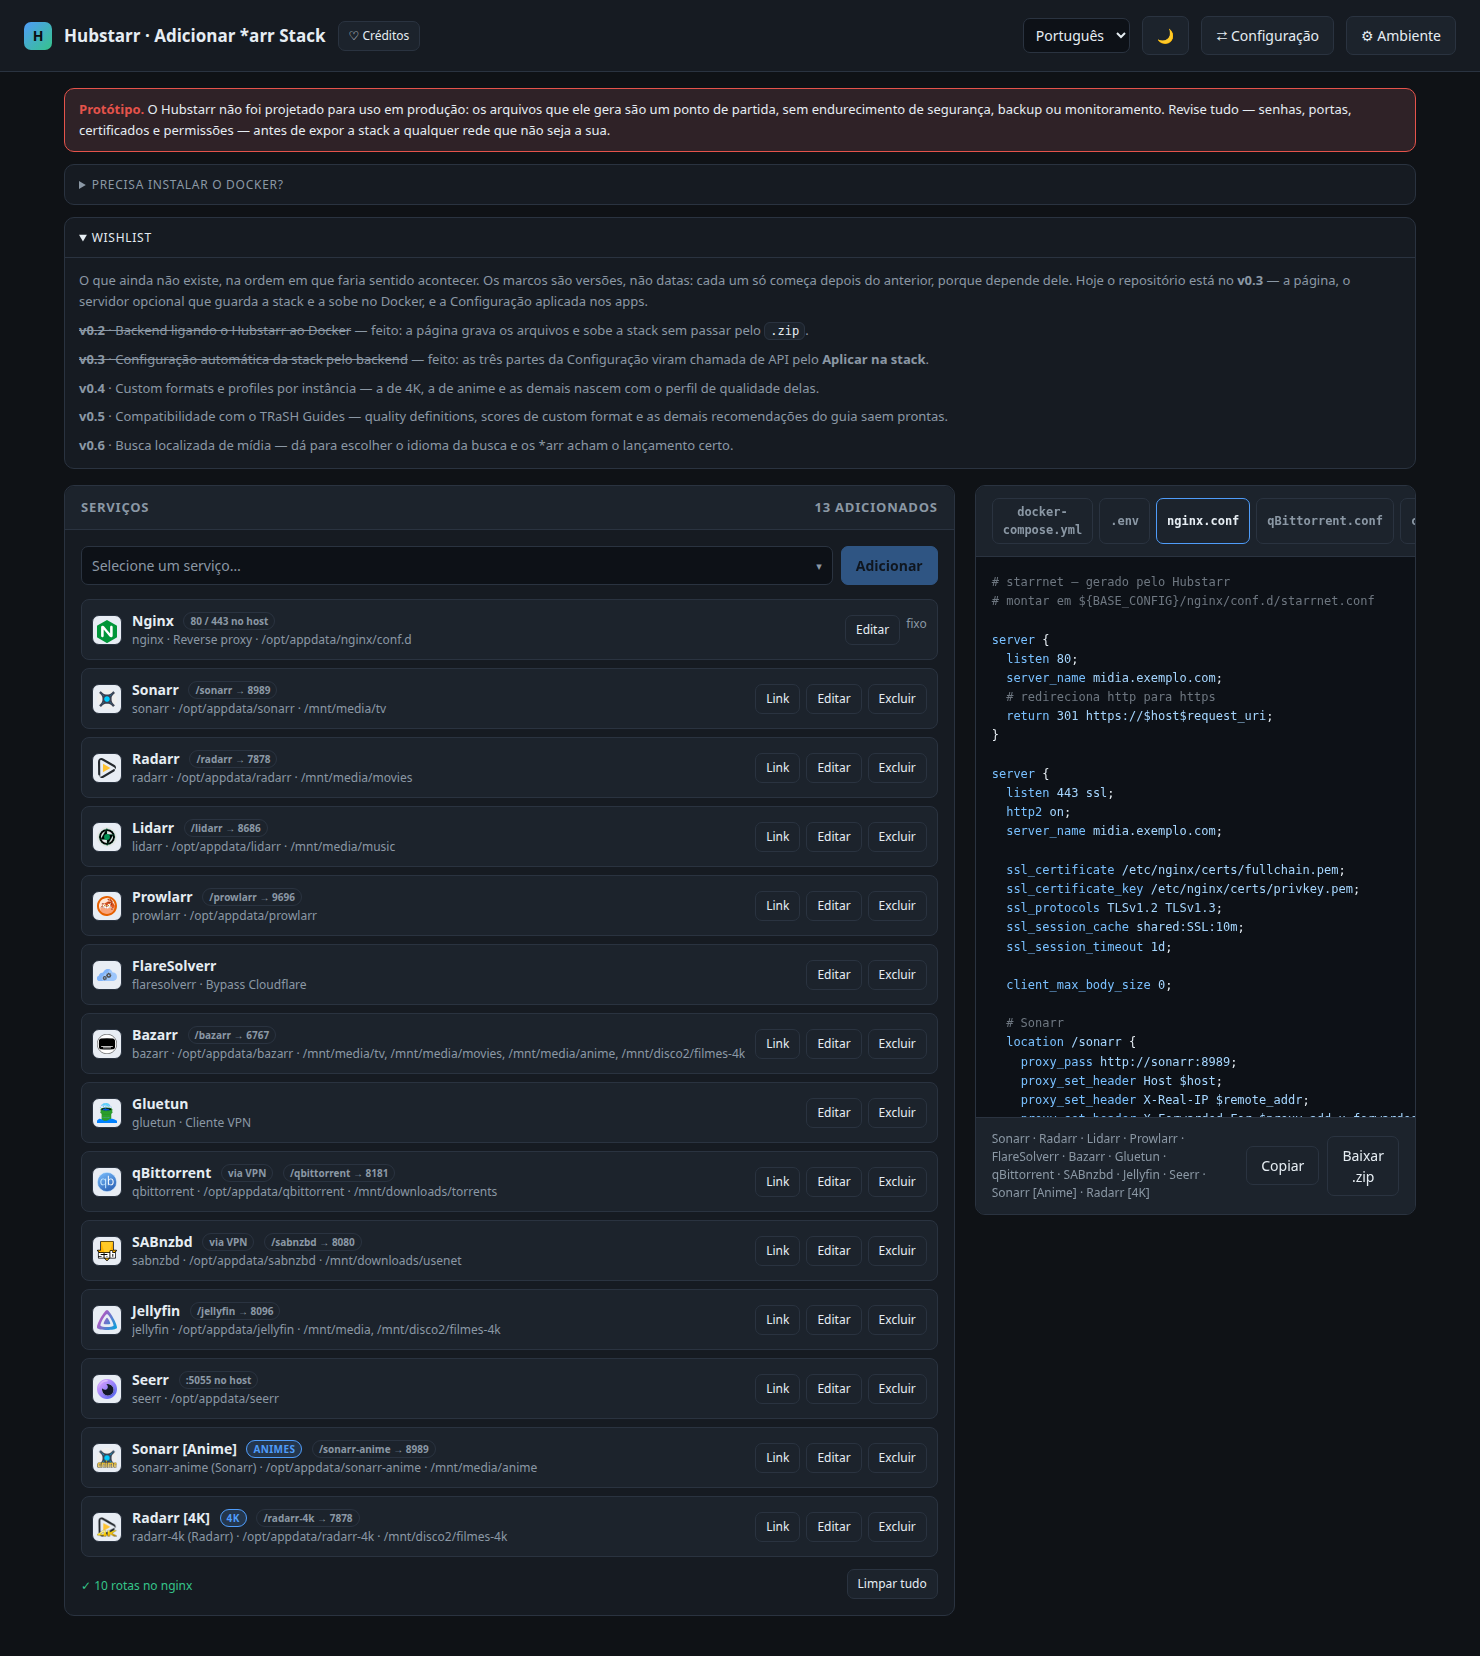
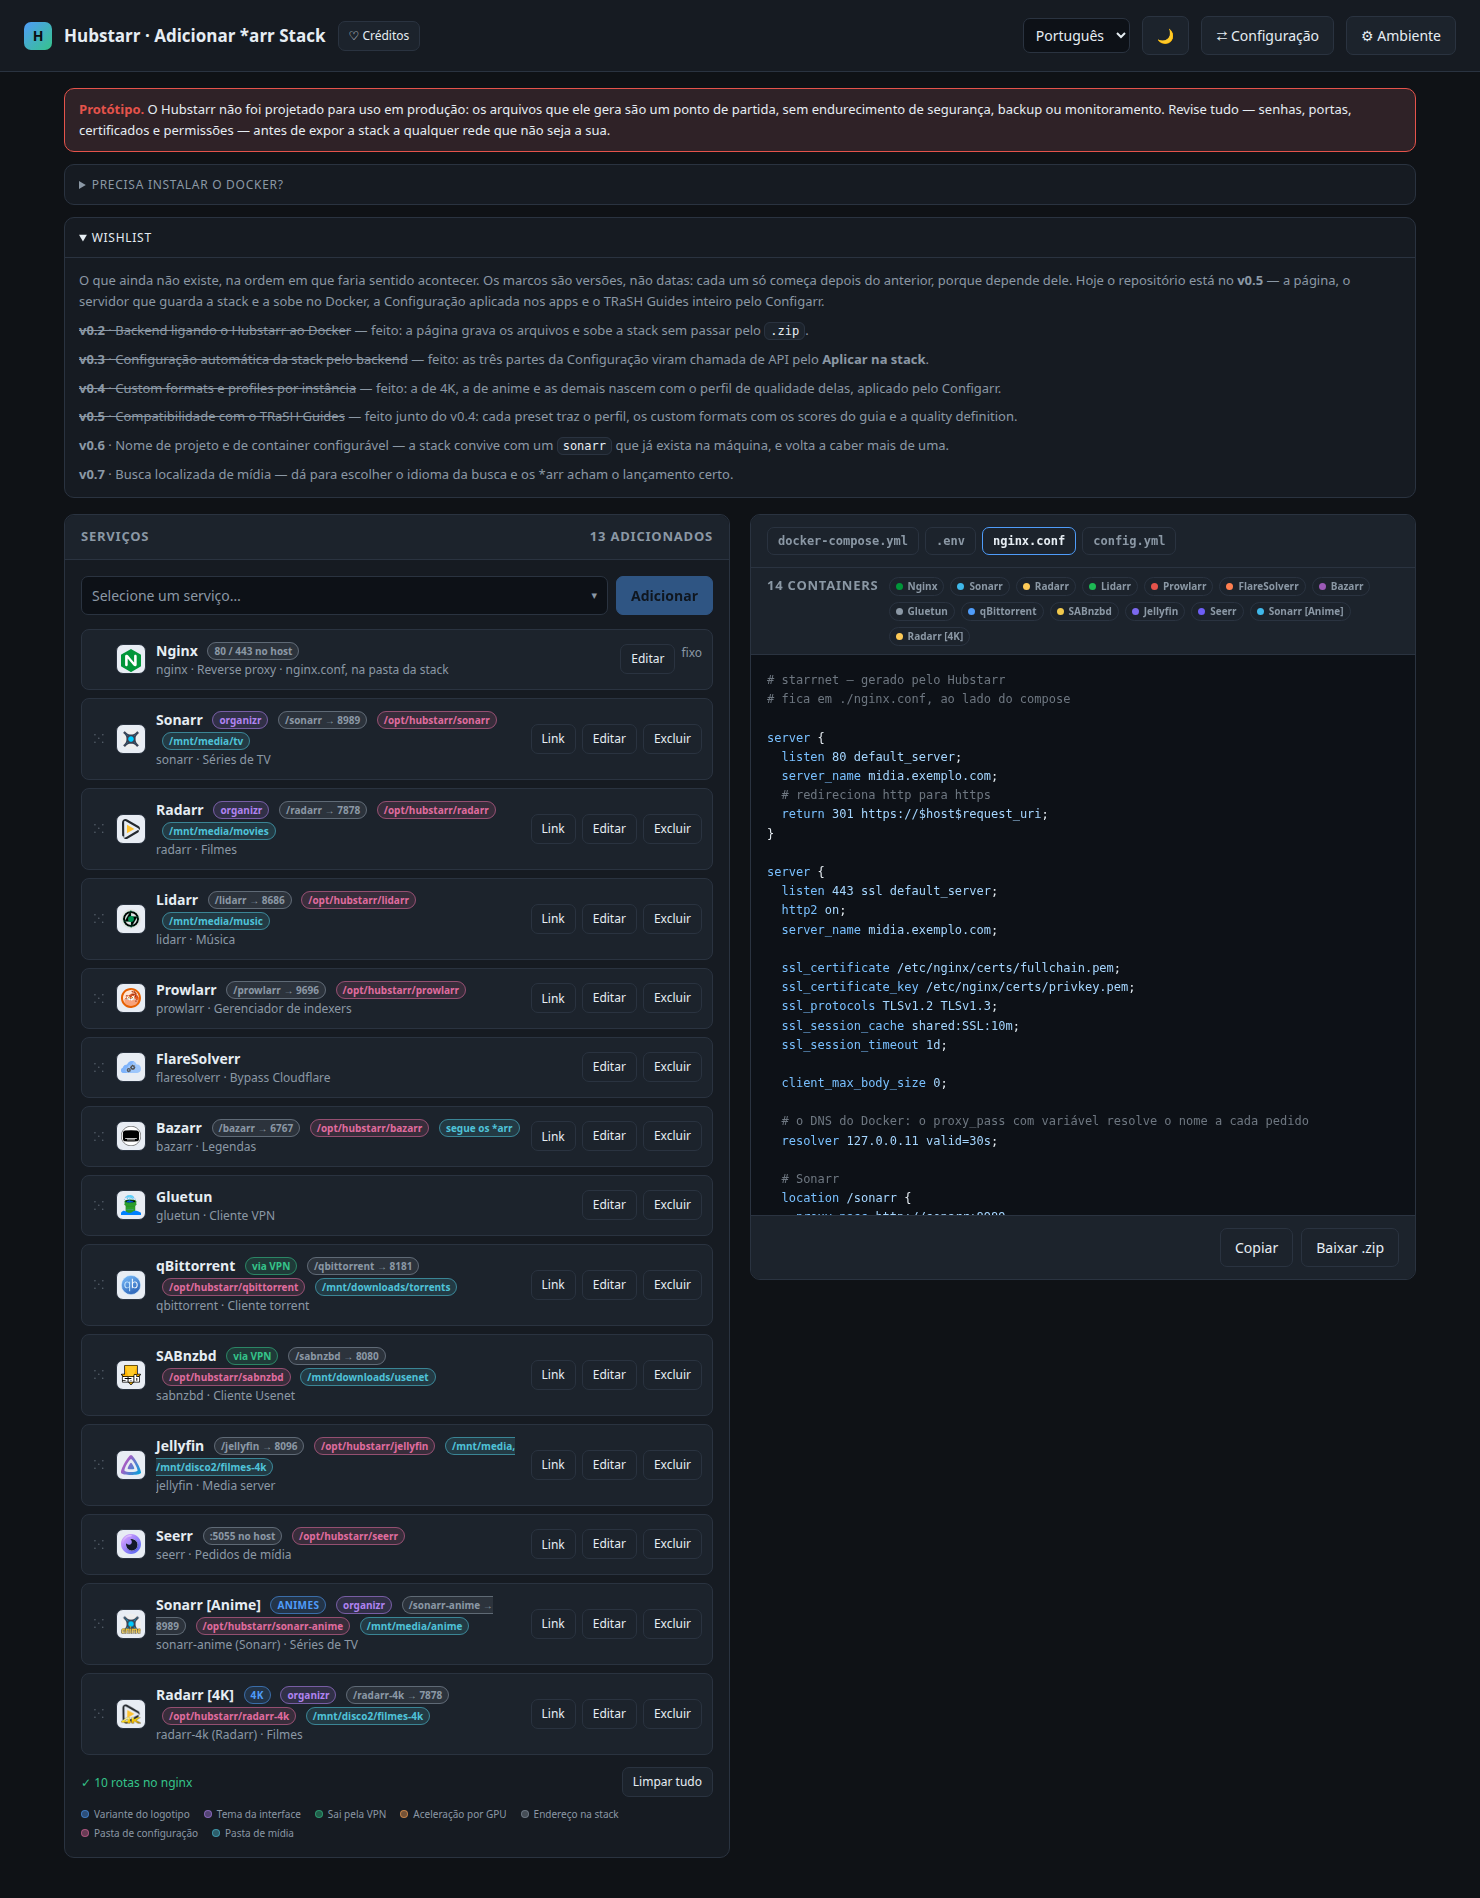
Refaz a captura da interface
A Wishlist da imagem ainda anunciava o v0.3, e a stack de exemplo mostrava o
qBittorrent publicando porta e as pastas em /opt/appdata.

Claude-Session: https://claude.ai/code/session_01XKfFQic9GrjyccfdSeskXD

diff --git a/CLAUDE.md b/CLAUDE.md
@@ -777,9 +777,14 @@ chromium-browser --headless=new --no-sandbox --disable-gpu --hide-scrollbars \
   --screenshot=$HOME/out.png "file://$HOME/tmp.html"
 ```
 
+Duas coisas que a `screenshot.png` pede além disso: **forçar o idioma** com um
+`setLang('pt-BR')` — ele fica no `localStorage` do perfil do chromium, e uma
+captura anterior em outro idioma contamina a próxima, em silêncio — e abrir a
+Wishlist pelo `open` do `<details>` dela, deixando o bloco do Docker fechado.
+
 `services.png`, `theme.png` e `credits.png` são 1480×760, a `config.png` é
 1480×900 — o modal é denso e em 760 não caberia o que ela mostra — e a
-`screenshot.png` acompanha a altura do conteúdo (hoje 1656, com a Wishlist
+`screenshot.png` acompanha a altura do conteúdo (hoje 1898, com a Wishlist
 aberta). A
 `theme.png` é a única que precisa de rede: o modal da captura busca a imagem
 em `docs.theme-park.dev`. O mesmo truque, com `--dump-dom` no lugar de `--screenshot`, é a
